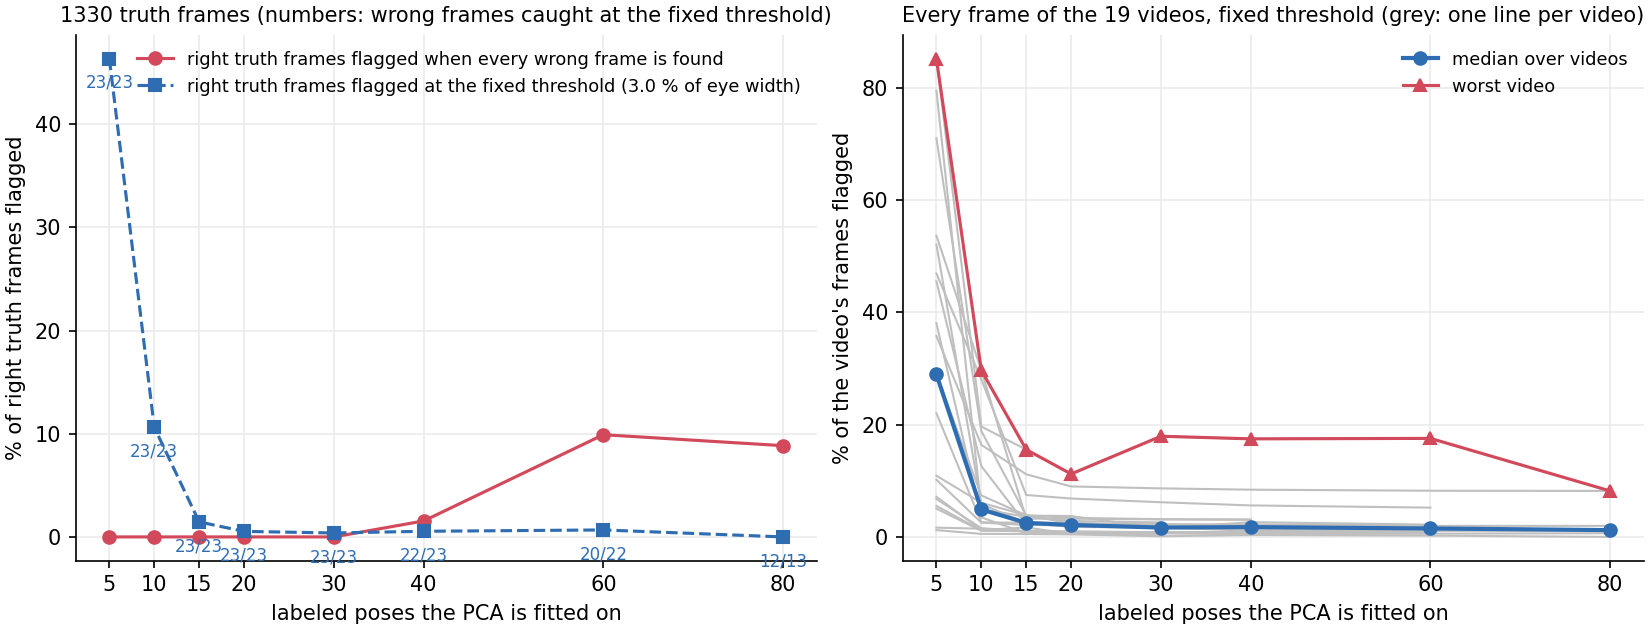
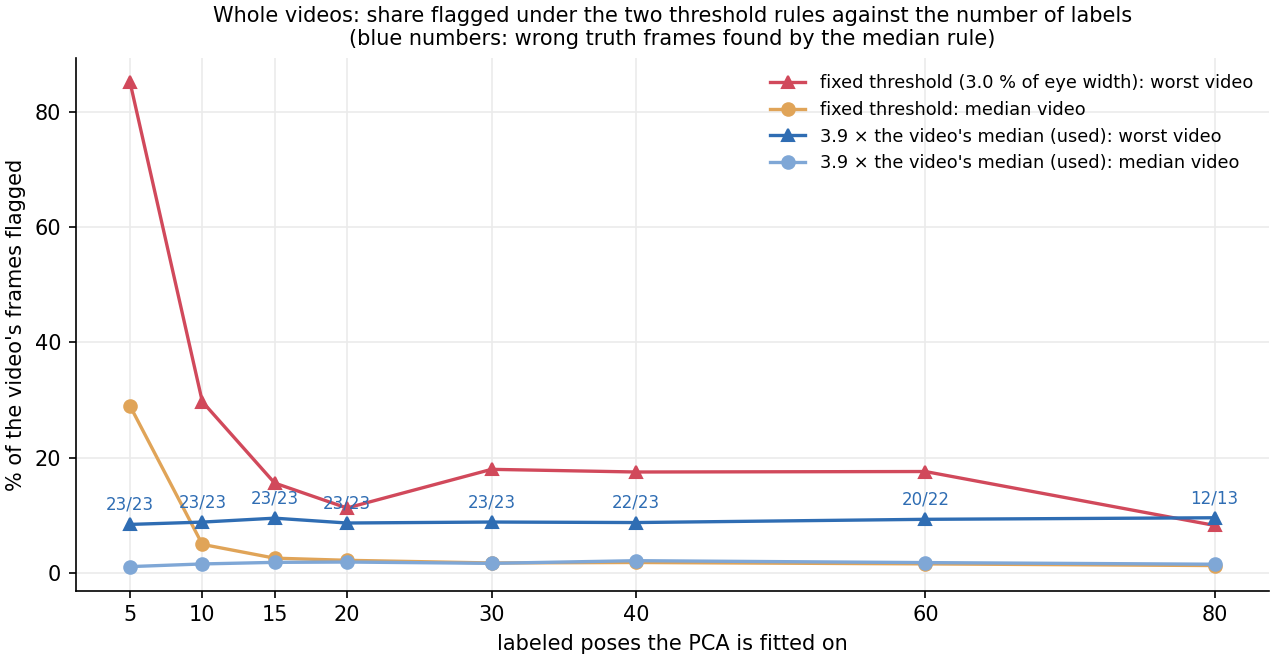
Figure 9-6: one panel, fixed threshold against the median rule over the number of labels

Changed region(s): [[0.0, 0.0, 1.0, 0.9952], [0.1224, 0.3317, 0.1529, 0.5429], [0.1529, 0.573, 0.1835, 0.6635]]

diff --git a/report/index.html b/report/index.html
@@ -78,7 +78,7 @@ math[display="block"]{margin:10px 0 6px;text-align:left;overflow-x:auto;max-widt
 
 <header>
   <h1><span lang="zh">小鼠眼睛关键点追踪：做了什么，结果是什么</span><span lang="en">Mouse eye keypoint tracking: what was done and what came out</span></h1>
-  <p class="muted small">Zhiheng Li (University of Minnesota), Kaiwen Sheng (Stanford) · <span lang="zh">页面生成时间</span><span lang="en">page built</span> 2026-10-31 15:04 · <a href="https://github.com/ZhihengLi0/mouse-behavior-tracking">GitHub: ZhihengLi0/mouse-behavior-tracking</a></p>
+  <p class="muted small">Zhiheng Li (University of Minnesota), Kaiwen Sheng (Stanford) · <span lang="zh">页面生成时间</span><span lang="en">page built</span> 2026-10-31 15:08 · <a href="https://github.com/ZhihengLi0/mouse-behavior-tracking">GitHub: ZhihengLi0/mouse-behavior-tracking</a></p>
 
   <div class="text" lang="zh">
     <p><b>任务：</b>用 DeepLabCut 在小鼠眼睛视频的每一帧上找 8 个点：瞳孔上、下、左、右，上眼睑、下眼睑，鼻侧眼角、颞侧眼角。由这 8 个点得到瞳孔大小、眼睛睁开程度和眨眼，之后与脑记录对齐。</p>
@@ -1109,7 +1109,7 @@ math[display="block"]{margin:10px 0 6px;text-align:left;overflow-x:auto;max-widt
       </li>
       <li><b>PCA 的阈值 = 3.9 × 本视频的中位数。</b>规则里只有两个数：
         <ul>
-          <li>中位数：每个视频自己算，取这个视频全部帧 PCA 分数的中位数。大多数帧是正常的，所以它就是这个视频的底噪；从预测直接算，不用标注，新视频拿到就有。不能像 fitting 那样用一个固定的眼宽百分比，因为 PCA 分数的大小随训练标注的数量变（刚好找全错帧所需的百分比：10 帧标注 11.5%，20 帧 6%，30 帧 5%），固定一个百分比会把视频 18 标出 18% 的帧，乘以各自的中位数之后降到 3%（图 9-6）。</li>
+          <li>中位数：每个视频自己算，取这个视频全部帧 PCA 分数的中位数。大多数帧是正常的，所以它就是这个视频的底噪；从预测直接算，不用标注，新视频拿到就有。不能像 fitting 那样用一个固定的眼宽百分比，因为 PCA 分数的大小随训练标注的数量变：固定百分比在标注少时标出大半个视频，标注多了最差的视频还是标出 17%；换成中位数的倍数之后，标出的比例不再随标注数变，最差视频也只有 9%（图 9-6）。</li>
           <li>3.9：所有视频共用的一个数，在真值帧上定一次。把 23 帧错帧的分数各除以所在视频的中位数，最小的是 7.2 倍，阈值放在 7.2 倍刚好把 23 帧全框进去；再照 fitting 的线 14% 和它最近的错帧 25.7% 之间的比例 1.84 放宽，7.2 除以 1.84 得 3.9。用 18 个视频定这个数、拿到留出的第 19 个上验，每轮都全部找到。</li>
         </ul>
       </li>
@@ -1129,7 +1129,7 @@ math[display="block"]{margin:10px 0 6px;text-align:left;overflow-x:auto;max-widt
       </li>
       <li><b>Threshold of the PCA = 3.9 × the video's median.</b> The rule has two numbers:
         <ul>
-          <li>The median: computed per video, the median PCA score of all its frames. Most frames are normal, so it is the video's own background; it comes from the predictions, needs no labels, and is there for any new video. A fixed share of the eye width, as for fitting, will not do, because the size of the PCA score depends on how many training labels it saw (the share that just finds all wrong frames: 11.5% with 10 labels, 6% with 20, 5% with 30); one fixed share flags 18% of video 18, the multiple of its own median 3% (Figure 9-6).</li>
+          <li>The median: computed per video, the median PCA score of all its frames. Most frames are normal, so it is the video's own background; it comes from the predictions, needs no labels, and is there for any new video. A fixed share of the eye width, as for fitting, will not do, because the size of the PCA score depends on how many training labels it saw: a fixed share flags most of a video when labels are few and still 17% of the worst video when they are many; as a multiple of the median the share flagged no longer depends on the number of labels and the worst video is at 9% (Figure 9-6).</li>
           <li>3.9: one number shared by all videos, set once on the truth frames. Dividing each of the 23 wrong frames' scores by its video's median, the smallest is 7.2, so a threshold at 7.2 × the median just encloses all 23; widened by the same factor by which the fitting line at 14% sits below its nearest wrong frame at 25.7%, 1.84, that gives 7.2 / 1.84 = 3.9. Set on 18 videos and tested on the held-out 19th, it finds all of them in every round.</li>
         </ul>
       </li>
@@ -1152,8 +1152,8 @@ math[display="block"]{margin:10px 0 6px;text-align:left;overflow-x:auto;max-widt
   </figure>
   <figure>
     <div class="figbox wide"><img src="assets/fig_pca_vs_labels.png" alt="The PCA finder against the number of labeled poses it is fitted on"></div>
-    <figcaption lang="zh"><span class="tag">图 9-6：</span>PCA 随它看到的标注数变化。左：真值帧上找全错帧所需的阈值，和一个固定阈值下的误标；右：整段视频上该固定阈值标出的比例，灰线每个视频一条。</figcaption>
-    <figcaption lang="en"><span class="tag">Figure 9-6:</span>The PCA against the number of labels it saw. Left: on the truth frames, the threshold needed to find all wrong frames and the misflags at one fixed threshold; right: share flagged on whole videos at that fixed threshold, one grey line per video.</figcaption>
+    <figcaption lang="zh"><span class="tag">图 9-6：</span>PCA 用不同数量的标注拟合时，整段视频被标出的比例，两种阈值规则各画中位视频和最差视频；蓝色数字是中位数倍数规则找到的错帧数。</figcaption>
+    <figcaption lang="en"><span class="tag">Figure 9-6:</span>Share of whole-video frames flagged when the PCA is fitted on different numbers of labels, median and worst video under each threshold rule; blue numbers: wrong truth frames found by the median rule.</figcaption>
   </figure>
   <div class="concl" lang="zh"><span class="tag">找错帧的结论：</span>fitting 和 PCA 都能找全错帧，但找到的不是同一批，两者互补；fitting 为主，PCA 为补。
     <ol>

diff --git a/report/template.html b/report/template.html
@@ -1001,7 +1001,7 @@ math[display="block"]{margin:10px 0 6px;text-align:left;overflow-x:auto;max-widt
       </li>
       <li><b>PCA 的阈值 = 3.9 × 本视频的中位数。</b>规则里只有两个数：
         <ul>
-          <li>中位数：每个视频自己算，取这个视频全部帧 PCA 分数的中位数。大多数帧是正常的，所以它就是这个视频的底噪；从预测直接算，不用标注，新视频拿到就有。不能像 fitting 那样用一个固定的眼宽百分比，因为 PCA 分数的大小随训练标注的数量变（刚好找全错帧所需的百分比：10 帧标注 11.5%，20 帧 6%，30 帧 5%），固定一个百分比会把视频 18 标出 18% 的帧，乘以各自的中位数之后降到 3%（图 9-6）。</li>
+          <li>中位数：每个视频自己算，取这个视频全部帧 PCA 分数的中位数。大多数帧是正常的，所以它就是这个视频的底噪；从预测直接算，不用标注，新视频拿到就有。不能像 fitting 那样用一个固定的眼宽百分比，因为 PCA 分数的大小随训练标注的数量变：固定百分比在标注少时标出大半个视频，标注多了最差的视频还是标出 17%；换成中位数的倍数之后，标出的比例不再随标注数变，最差视频也只有 9%（图 9-6）。</li>
           <li>3.9：所有视频共用的一个数，在真值帧上定一次。把 23 帧错帧的分数各除以所在视频的中位数，最小的是 7.2 倍，阈值放在 7.2 倍刚好把 23 帧全框进去；再照 fitting 的线 14% 和它最近的错帧 25.7% 之间的比例 1.84 放宽，7.2 除以 1.84 得 3.9。用 18 个视频定这个数、拿到留出的第 19 个上验，每轮都全部找到。</li>
         </ul>
       </li>
@@ -1021,7 +1021,7 @@ math[display="block"]{margin:10px 0 6px;text-align:left;overflow-x:auto;max-widt
       </li>
       <li><b>Threshold of the PCA = 3.9 × the video's median.</b> The rule has two numbers:
         <ul>
-          <li>The median: computed per video, the median PCA score of all its frames. Most frames are normal, so it is the video's own background; it comes from the predictions, needs no labels, and is there for any new video. A fixed share of the eye width, as for fitting, will not do, because the size of the PCA score depends on how many training labels it saw (the share that just finds all wrong frames: 11.5% with 10 labels, 6% with 20, 5% with 30); one fixed share flags 18% of video 18, the multiple of its own median 3% (Figure 9-6).</li>
+          <li>The median: computed per video, the median PCA score of all its frames. Most frames are normal, so it is the video's own background; it comes from the predictions, needs no labels, and is there for any new video. A fixed share of the eye width, as for fitting, will not do, because the size of the PCA score depends on how many training labels it saw: a fixed share flags most of a video when labels are few and still 17% of the worst video when they are many; as a multiple of the median the share flagged no longer depends on the number of labels and the worst video is at 9% (Figure 9-6).</li>
           <li>3.9: one number shared by all videos, set once on the truth frames. Dividing each of the 23 wrong frames' scores by its video's median, the smallest is 7.2, so a threshold at 7.2 × the median just encloses all 23; widened by the same factor by which the fitting line at 14% sits below its nearest wrong frame at 25.7%, 1.84, that gives 7.2 / 1.84 = 3.9. Set on 18 videos and tested on the held-out 19th, it finds all of them in every round.</li>
         </ul>
       </li>
@@ -1044,8 +1044,8 @@ math[display="block"]{margin:10px 0 6px;text-align:left;overflow-x:auto;max-widt
   </figure>
   <figure>
     <div class="figbox wide"><img src="assets/fig_pca_vs_labels.png" alt="The PCA finder against the number of labeled poses it is fitted on"></div>
-    <figcaption lang="zh"><span class="tag">图 9-6：</span>PCA 随它看到的标注数变化。左：真值帧上找全错帧所需的阈值，和一个固定阈值下的误标；右：整段视频上该固定阈值标出的比例，灰线每个视频一条。</figcaption>
-    <figcaption lang="en"><span class="tag">Figure 9-6:</span>The PCA against the number of labels it saw. Left: on the truth frames, the threshold needed to find all wrong frames and the misflags at one fixed threshold; right: share flagged on whole videos at that fixed threshold, one grey line per video.</figcaption>
+    <figcaption lang="zh"><span class="tag">图 9-6：</span>PCA 用不同数量的标注拟合时，整段视频被标出的比例，两种阈值规则各画中位视频和最差视频；蓝色数字是中位数倍数规则找到的错帧数。</figcaption>
+    <figcaption lang="en"><span class="tag">Figure 9-6:</span>Share of whole-video frames flagged when the PCA is fitted on different numbers of labels, median and worst video under each threshold rule; blue numbers: wrong truth frames found by the median rule.</figcaption>
   </figure>
   <div class="concl" lang="zh"><span class="tag">找错帧的结论：</span>fitting 和 PCA 都能找全错帧，但找到的不是同一批，两者互补；fitting 为主，PCA 为补。
     <ol>

diff --git a/report/index_en.html b/report/index_en.html
@@ -75,7 +75,7 @@ math[display="block"]{margin:10px 0 6px;text-align:left;overflow-x:auto;max-widt
 
 <header>
   <h1><span lang="en">Mouse eye keypoint tracking: what was done and what came out</span></h1>
-  <p class="muted small">Zhiheng Li (University of Minnesota), Kaiwen Sheng (Stanford) · <span lang="en">page built</span> 2026-10-31 15:04 · <a href="https://github.com/ZhihengLi0/mouse-behavior-tracking">GitHub: ZhihengLi0/mouse-behavior-tracking</a></p>
+  <p class="muted small">Zhiheng Li (University of Minnesota), Kaiwen Sheng (Stanford) · <span lang="en">page built</span> 2026-10-31 15:08 · <a href="https://github.com/ZhihengLi0/mouse-behavior-tracking">GitHub: ZhihengLi0/mouse-behavior-tracking</a></p>
 
   
   <div class="text" lang="en">
@@ -865,7 +865,7 @@ math[display="block"]{margin:10px 0 6px;text-align:left;overflow-x:auto;max-widt
       </li>
       <li><b>Threshold of the PCA = 3.9 × the video's median.</b> The rule has two numbers:
         <ul>
-          <li>The median: computed per video, the median PCA score of all its frames. Most frames are normal, so it is the video's own background; it comes from the predictions, needs no labels, and is there for any new video. A fixed share of the eye width, as for fitting, will not do, because the size of the PCA score depends on how many training labels it saw (the share that just finds all wrong frames: 11.5% with 10 labels, 6% with 20, 5% with 30); one fixed share flags 18% of video 18, the multiple of its own median 3% (Figure 9-6).</li>
+          <li>The median: computed per video, the median PCA score of all its frames. Most frames are normal, so it is the video's own background; it comes from the predictions, needs no labels, and is there for any new video. A fixed share of the eye width, as for fitting, will not do, because the size of the PCA score depends on how many training labels it saw: a fixed share flags most of a video when labels are few and still 17% of the worst video when they are many; as a multiple of the median the share flagged no longer depends on the number of labels and the worst video is at 9% (Figure 9-6).</li>
           <li>3.9: one number shared by all videos, set once on the truth frames. Dividing each of the 23 wrong frames' scores by its video's median, the smallest is 7.2, so a threshold at 7.2 × the median just encloses all 23; widened by the same factor by which the fitting line at 14% sits below its nearest wrong frame at 25.7%, 1.84, that gives 7.2 / 1.84 = 3.9. Set on 18 videos and tested on the held-out 19th, it finds all of them in every round.</li>
         </ul>
       </li>
@@ -889,7 +889,7 @@ math[display="block"]{margin:10px 0 6px;text-align:left;overflow-x:auto;max-widt
   <figure>
     <div class="figbox wide"><img src="assets/fig_pca_vs_labels.png" alt="The PCA finder against the number of labeled poses it is fitted on"></div>
     
-    <figcaption lang="en"><span class="tag">Figure 9-6:</span>The PCA against the number of labels it saw. Left: on the truth frames, the threshold needed to find all wrong frames and the misflags at one fixed threshold; right: share flagged on whole videos at that fixed threshold, one grey line per video.</figcaption>
+    <figcaption lang="en"><span class="tag">Figure 9-6:</span>Share of whole-video frames flagged when the PCA is fitted on different numbers of labels, median and worst video under each threshold rule; blue numbers: wrong truth frames found by the median rule.</figcaption>
   </figure>
   
   <div class="concl" lang="en"><span class="tag">Conclusion on finding:</span>fitting and the PCA both find every wrong frame, but not the same ones, and complement each other; fitting is the main signal, the PCA the complement.

diff --git a/v2_new_pupil_top_video_scaling/scripts/pca_vs_labels.py b/v2_new_pupil_top_video_scaling/scripts/pca_vs_labels.py
@@ -8,7 +8,8 @@ the first k labeled poses in active-learning order (batch01, batch02, ...), k = 
 that many exist; poses that are truth frames are never used. For each k: on the 1330 truth frames, the share of right
 frames flagged when the threshold is set to find every wrong frame of the videos available at that k (line =
 results/error_tier/tier.csv); on every frame of the videos, the share flagged at the fixed threshold of
-finder_comparison.py (3.0 % of eye width) and the median score of the video (its background).
+finder_comparison.py (3.0 % of eye width) and at the median-multiple rule of pca_threshold.py, and the median score of the
+video (its background).
 Outputs results/finder_comparison/pca_vs_labels.csv (per video and k), pca_vs_labels_summary.csv, pca_vs_labels.png.
 Nothing existing is modified."""
 import re
@@ -27,6 +28,7 @@ from second_peak_repair import predictions  # noqa: E402
 
 KS = [5, 10, 15, 20, 30, 40, 60, 80]
 THR = float(pd.read_csv(F.OUT / "whole_video_share.csv").pca_threshold.iloc[0])
+MULT = float(pd.read_csv(F.OUT / "pca_threshold_rule.csv").iloc[0].M)   # the median-multiple rule of pca_threshold.py
 line = F.line
 
 
@@ -66,8 +68,10 @@ def main():
                 continue
             s, nc = pca_error(train[:k], P)
             s = s / F.W[v]
+            med = np.nanmedian(s)
             rows.append({"video": v, "k": k, "poses_available": len(train), "truth_frames_excluded": n_excl, "components": nc,
-                         "video_median_pct": 100 * np.nanmedian(s), "video_p90_pct": 100 * np.nanquantile(s, 0.9), "flagged_at_fixed_thr_pct": 100 * np.nanmean(s > THR)})
+                         "video_median_pct": 100 * med, "video_p90_pct": 100 * np.nanquantile(s, 0.9), "flagged_at_fixed_thr_pct": 100 * np.nanmean(s > THR),
+                         "flagged_at_median_rule_pct": 100 * np.nanmean(s > MULT * med), "wrong_caught_median_rule": int((s[idx][(tf.error_rel > line).to_numpy()] > MULT * med).sum())})
             truth.append(pd.DataFrame({"video": v, "k": k, "frame": idx, "score": s[idx], "wrong": (tf.error_rel > line).to_numpy()}))
         print("video", v, "poses", len(train), "excluded truth", n_excl)
     R = pd.DataFrame(rows)
@@ -85,6 +89,8 @@ def main():
         summ.append({"k": k, "videos": len(vids), "wrong_frames": int(Tk.wrong.sum()), "good_frames": len(good), "good_flagged_at_full_recall_pct": 100 * (good.score >= tmin).mean(),
                      "threshold_finds_all_pct": 100 * tmin, "wrong_caught_at_fixed_thr": int((Tk[Tk.wrong].score > THR).sum()), "good_flagged_at_fixed_thr_pct": 100 * (good.score > THR).mean(),
                      "whole_video_flagged_median_pct": Rk.flagged_at_fixed_thr_pct.median(), "whole_video_flagged_max_pct": Rk.flagged_at_fixed_thr_pct.max(),
+                     "median_rule_flagged_median_pct": Rk.flagged_at_median_rule_pct.median(), "median_rule_flagged_max_pct": Rk.flagged_at_median_rule_pct.max(),
+                     "median_rule_wrong_caught": int(Rk.wrong_caught_median_rule.sum()),
                      "video_median_score_median_pct": Rk.video_median_pct.median(), "components_median": Rk.components.median()})
     S = pd.DataFrame(summ)
     S.round(3).to_csv(F.OUT / "pca_vs_labels_summary.csv", index=False)
@@ -94,30 +100,21 @@ def main():
     import matplotlib
     matplotlib.use("Agg")
     import matplotlib.pyplot as plt
-    fig, axs = plt.subplots(1, 2, figsize=(11, 4.2), constrained_layout=True)
-    ax = axs[0]
-    ax.plot(S.k, S.good_flagged_at_full_recall_pct, "o-", color="#d1495b", label="right truth frames flagged when every wrong frame is found")
-    ax.plot(S.k, S.good_flagged_at_fixed_thr_pct, "s--", color="#2f6db3", label=f"right truth frames flagged at the fixed threshold ({100 * THR:.1f} % of eye width)")
-    for k, c, n in zip(S.k, S.wrong_caught_at_fixed_thr, S.wrong_frames):
-        ax.annotate(f"{c}/{n}", (k, S.good_flagged_at_fixed_thr_pct[S.k == k].iloc[0]), textcoords="offset points", xytext=(0, -14), ha="center", fontsize=8, color="#2f6db3")
-    ax.set_xlabel("labeled poses the PCA is fitted on")
-    ax.set_ylabel("% of right truth frames flagged")
-    ax.set_title("1330 truth frames (numbers: wrong frames caught at the fixed threshold)", fontsize=10)
-    ax.legend(frameon=False, fontsize=8.5)
-    ax = axs[1]
-    for v, g in R.groupby("video"):
-        ax.plot(g.k, g.flagged_at_fixed_thr_pct, "-", color="0.75", lw=1)
-    ax.plot(S.k, S.whole_video_flagged_median_pct, "o-", color="#2f6db3", lw=2, label="median over videos")
-    ax.plot(S.k, S.whole_video_flagged_max_pct, "^-", color="#d1495b", lw=1.5, label="worst video")
+    fig, ax = plt.subplots(figsize=(8.5, 4.4), constrained_layout=True)
+    ax.plot(S.k, S.whole_video_flagged_max_pct, "^-", color="#d1495b", lw=1.6, label=f"fixed threshold ({100 * THR:.1f} % of eye width): worst video")
+    ax.plot(S.k, S.whole_video_flagged_median_pct, "o-", color="#e0a458", lw=1.6, label="fixed threshold: median video")
+    ax.plot(S.k, S.median_rule_flagged_max_pct, "^-", color="#2f6db3", lw=1.6, label=f"{MULT:.1f} × the video's median (used): worst video")
+    ax.plot(S.k, S.median_rule_flagged_median_pct, "o-", color="#7fa7d6", lw=1.6, label=f"{MULT:.1f} × the video's median (used): median video")
+    for k, c, n in zip(S.k, S.median_rule_wrong_caught, S.wrong_frames):
+        ax.annotate(f"{c}/{n}", (k, S.median_rule_flagged_max_pct[S.k == k].iloc[0]), textcoords="offset points", xytext=(0, 7), ha="center", fontsize=8, color="#2f6db3")
     ax.set_xlabel("labeled poses the PCA is fitted on")
     ax.set_ylabel("% of the video's frames flagged")
-    ax.set_title("Every frame of the 19 videos, fixed threshold (grey: one line per video)", fontsize=10)
+    ax.set_title("Whole videos: share flagged under the two threshold rules against the number of labels\n(blue numbers: wrong truth frames found by the median rule)", fontsize=10)
+    ax.set_xticks(KS)
+    ax.spines[["top", "right"]].set_visible(False)
+    ax.grid(color="0.92")
+    ax.set_axisbelow(True)
     ax.legend(frameon=False, fontsize=8.5)
-    for ax in axs:
-        ax.set_xticks(KS)
-        ax.spines[["top", "right"]].set_visible(False)
-        ax.grid(color="0.92")
-        ax.set_axisbelow(True)
     fig.savefig(F.OUT / "pca_vs_labels.png", dpi=150)
 
 
